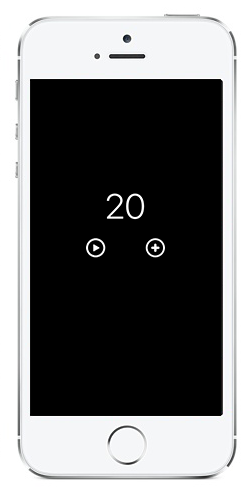
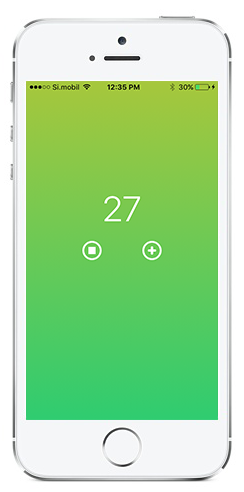
Add colors.

diff --git a/Timer/Timer/ViewController.swift b/Timer/Timer/ViewController.swift
@@ -7,6 +7,7 @@
 //
 
 import UIKit
+import ChameleonFramework
 
 class ViewController: UIViewController {
     
@@ -23,10 +24,10 @@ class ViewController: UIViewController {
     let timerModel = TimerModel(time: 20)
     var time: Int?
     
-    var state: String? = "stopped"
+    var going: Bool = false
     
     @IBAction func onOffAction(sender: UIButton) {
-        if state == "stopped" {
+        if going == false {
             start()
             
         } else {
@@ -42,7 +43,7 @@ class ViewController: UIViewController {
         
         if time > 0 {
             onOffButton.enabled = true
-            if state == "stopped" {
+            if going == false {
                 onOffButton.setBackgroundImage(UIImage(named: "play.png"), forState: .Normal)
             }
         }
@@ -52,7 +53,7 @@ class ViewController: UIViewController {
     
     func start () {
         onOffButton.setBackgroundImage(UIImage(named: "stop.png"), forState: .Normal)
-        state = "going"
+        going = true
         timer = NSTimer.scheduledTimerWithTimeInterval(1.0, target: self, selector: "count", userInfo: nil, repeats: true)
     }
     
@@ -60,7 +61,7 @@ class ViewController: UIViewController {
         onOffButton.setBackgroundImage(UIImage(named: "play.png"), forState: .Normal)
         timer!.invalidate()
         timer = nil
-        state = "stopped"
+        going = false
     }
     
     func count () {
@@ -68,8 +69,7 @@ class ViewController: UIViewController {
         timerLabel.text = String(time!)
         
         if time < 10 {
-            timerLabel.textColor = UIColor.redColor()
-        }
+            timerLabel.textColor = UIColor.yellowColor()        }
         
         if time < 1 {
             stop()
@@ -78,10 +78,26 @@ class ViewController: UIViewController {
         }
     }
     
+    deinit {
+        if let timer = timer {
+            timer.invalidate()
+            self.timer = nil
+        }
+    }
+    
     override func viewDidLoad() {
         super.viewDidLoad()
         time = timerModel.time
         timerLabel.text = String(time!)
+        
+        let colors:[UIColor] = [
+            UIColor.flatLimeColor(),
+            UIColor.flatGreenColor()
+        ]
+        
+        let frame = CGRect(x: 0, y: 0, width: self.view.frame.size.width, height: self.view.frame.size.height)
+        
+        view.backgroundColor = UIColor(gradientStyle: UIGradientStyle.TopToBottom, withFrame: frame, andColors:colors)
         
         // Do any additional setup after loading the view, typically from a nib.
     }

diff --git a/Timer/Timer/AppDelegate.swift b/Timer/Timer/AppDelegate.swift
@@ -13,7 +13,7 @@ class AppDelegate: UIResponder, UIApplicationDelegate {
 
     var window: UIWindow?
     
-    var oldState : String? = "stopped"
+    var oldGoing: Bool = false
 
     func application(application: UIApplication, didFinishLaunchingWithOptions launchOptions: [NSObject: AnyObject]?) -> Bool {
         // Override point for customization after application launch.
@@ -26,7 +26,7 @@ class AppDelegate: UIResponder, UIApplicationDelegate {
         
         if let viewControllers = self.window?.rootViewController {
             if let vc = viewControllers as? ViewController {
-                oldState = vc.state
+                oldGoing = vc.going
                 vc.stop()
             }
         }
@@ -47,7 +47,7 @@ class AppDelegate: UIResponder, UIApplicationDelegate {
        
         if let viewControllers = self.window?.rootViewController {
             if let vc = viewControllers as? ViewController {
-                if oldState == "going" {
+                if oldGoing == true {
                     vc.start()
                 }
             }

diff --git a/README.md b/README.md
@@ -1,6 +1,9 @@
 # Simple Timer
 
-Simple Timer counts down time in seconds as long as it is in foreground. When the counter drops below 10 its color changes into red. There is a button for adding 10 more seconds to the counter and another to stop and restore the countdown. It was developed as an exercise of *application lifcycle*.
+Simple Timer counts down time in seconds as long as it is in foreground. When the counter drops below 10 its color changes into red. There is a button for adding 10 more seconds to the counter and another to stop and restore the countdown. It was developed as an exercise of *application lifcycle*. <br />
+<br />
+<br />
+Dependency: ChameleonFramework
 
 <img src="img/1.png" width="300" />
 <img src="img/2.png" width="300" />
